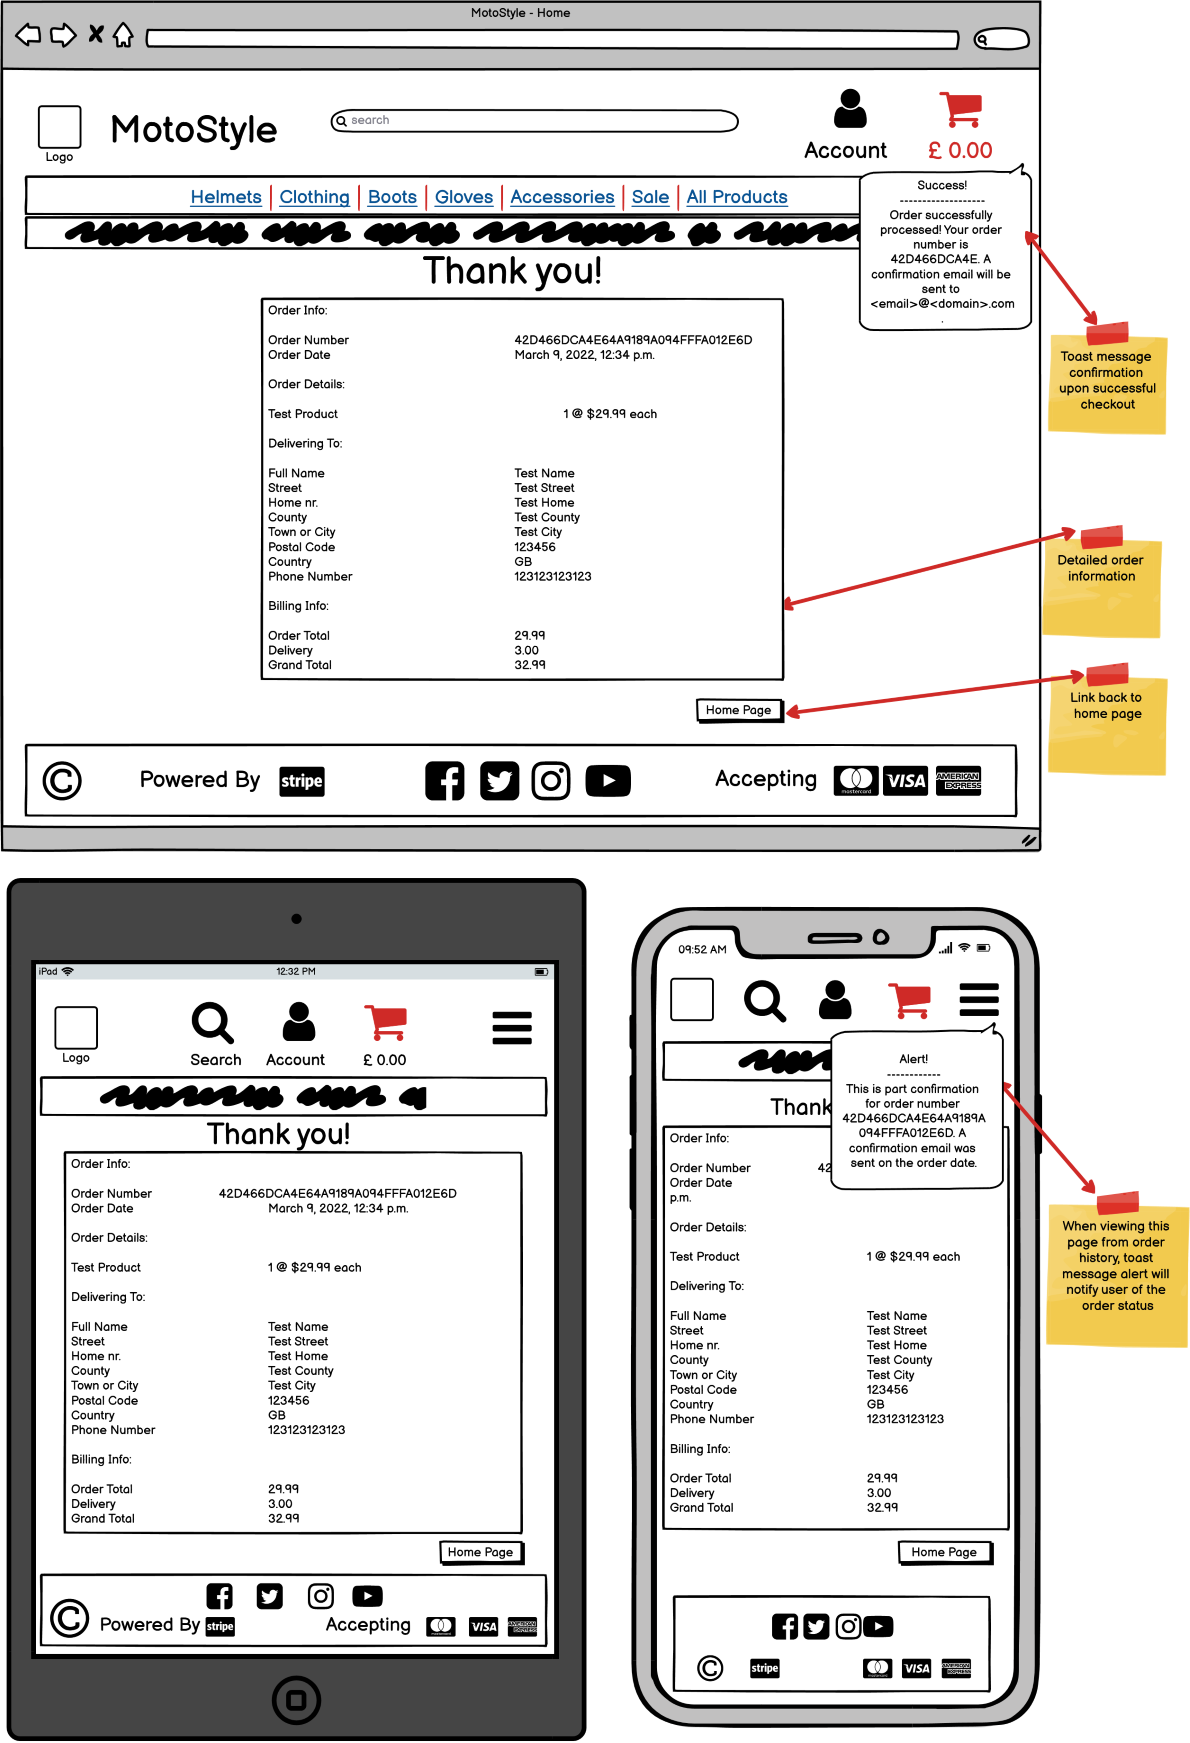
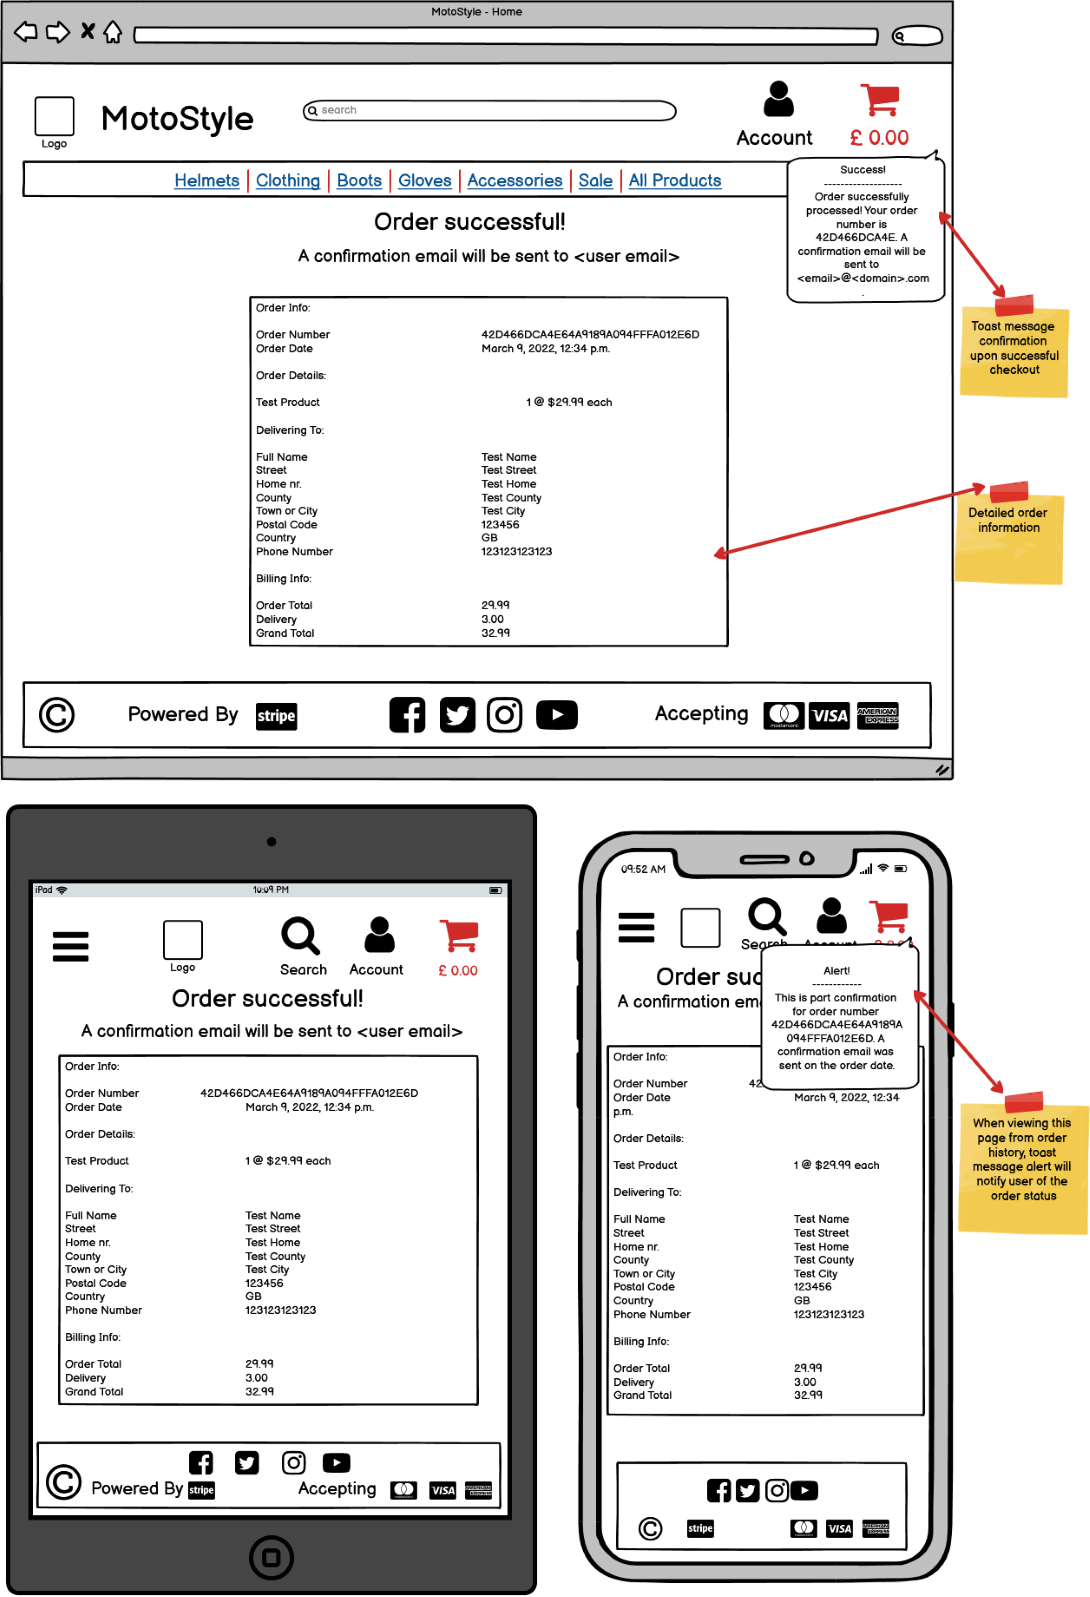
Update(docs): Checkout success view wireframes

diff --git a/README.md b/README.md
@@ -397,6 +397,12 @@ Database schema was generated with the Django extension [Graph Models](https://d
 </details>
 
 <details>
+  <summary> (Expand) Checkout Success Page Wireframes.</summary>
+
+![Checkout Page Wireframes](docs/wireframes/checkout_success_view.png)
+</details>
+
+<details>
   <summary> (Expand) Blog Page Wireframes.</summary>
 
 ![Blog Page Wireframes](docs/wireframes/add_item_page.png)
